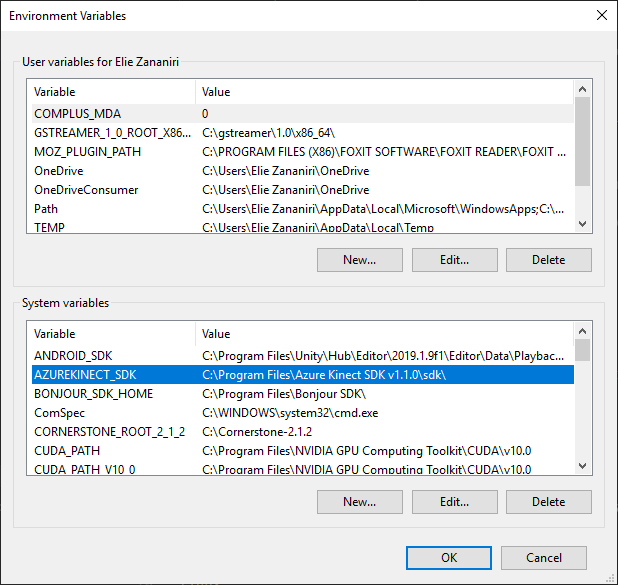
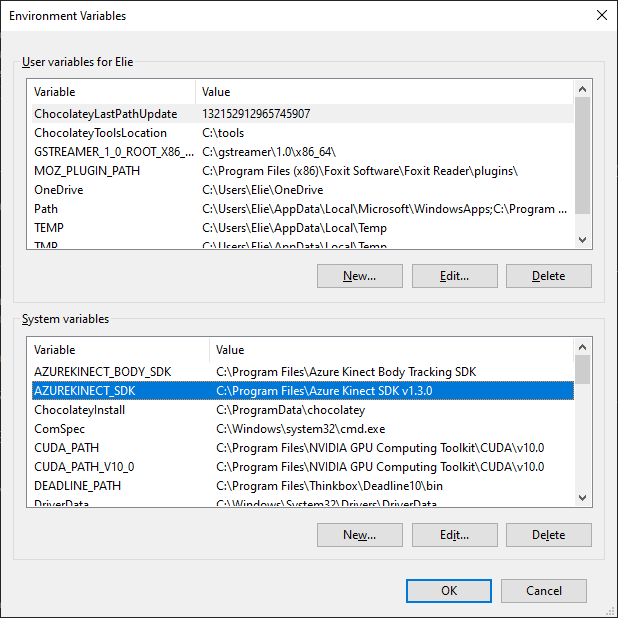
Update config paths and README for Sensor SDK 1.3.0 and Body SDK 0.9.4.

diff --git a/README.md b/README.md
@@ -4,31 +4,39 @@ ofxAddon that allows you to use [Azure Kinect](https://azure.microsoft.com/en-us
 
 * Get depth, color, depth to world, and color in depth frames as `ofPixels` or `ofTexture`.
 * Get point cloud VBO with texture coordinates in depth space.
+* Get body tracking skeleton and index texture.
 * More coming soon... (undistort that crazy fisheye frame, read IMU values, sync between multi-devices, etc.)
 
 ## Installation
 
 * Install the [Azure Kinect Sensor SDK](https://docs.microsoft.com/en-us/azure/Kinect-dk/sensor-sdk-download).
-
-* Add an environment variable for `AZUREKINECT_SDK` and set it to the installation path. The default on Windows is `C:\Program Files\Azure Kinect SDK v1.1.0\sdk\`.
+* Install the [Azure Kinect Body Tracking SDK](https://docs.microsoft.com/en-us/azure/Kinect-dk/body-sdk-download).
+* Add an environment variable for `AZUREKINECT_SDK` and set it to the Sensor SDK installation path (no trailing slash). The default is `C:\Program Files\Azure Kinect SDK v1.3.0`.
+* Add an environment variable for `AZUREKINECT_BODY_SDK` and set it to the Body SDK installation path (no trailing slash). The default is `C:\Program Files\Azure Kinect Body Tracking SDK`.
 
     ![Environment Variables](Install-EnvVars.png)
 
-* Add the path to the SDK `bin` folder to the `PATH` variable. The default on Windows is `%AZUREKINECT_SDK%\windows-desktop\amd64\release\bin`.
+* Add the path to the Sensor SDK `bin` folder to the `PATH` variable. The default is `%AZUREKINECT_SDK%\sdk\windows-desktop\amd64\release\bin`.
+* Add the path to the Body SDK `bin` folder to the `PATH` variable. The default is `%AZUREKINECT_BODY_SDK%\sdk\windows-desktop\amd64\release\bin`.
+* Add the path to the Body SDK `tools` folder to the `PATH` variable. The default is `%AZUREKINECT_BODY_SDK%\tools`.
 
     ![Path](Install-Path.png)
 
 
 * Clone this repository in your openFrameworks `addons` folder.
-
 * You can then use the OF Project Generator to generate projects with the appropriate headers and libraries included. ✌
+* Note that if you want to use body tracking, you will need to copy the cuDNN model file `dnn_model_2_0.onnx` from the Body SDK `tools` folder into your project's `bin` folder!
 
 ## Compatibility
 
-* Tested on openFrameworks 0.10.x / Windows 10 / Visual Studio 2017.
+Tested with: 
+* openFrameworks 0.10.x
+* Windows 10
+* Visual Studio 2017 / 2019
 
 ## Examples
 
 * `example-streams` demonstrates how to get depth, color, infrared textures from the device.
 * `example-pointCloud` demonstrates how to draw the basic point cloud VBO from the device.
 * `example-shader` demonstrates how to reconstruct a point cloud using LUTs in a shader.
+* `example-bodies` demonstrates how to get the body tracking index texture, and skeleton joint information.
